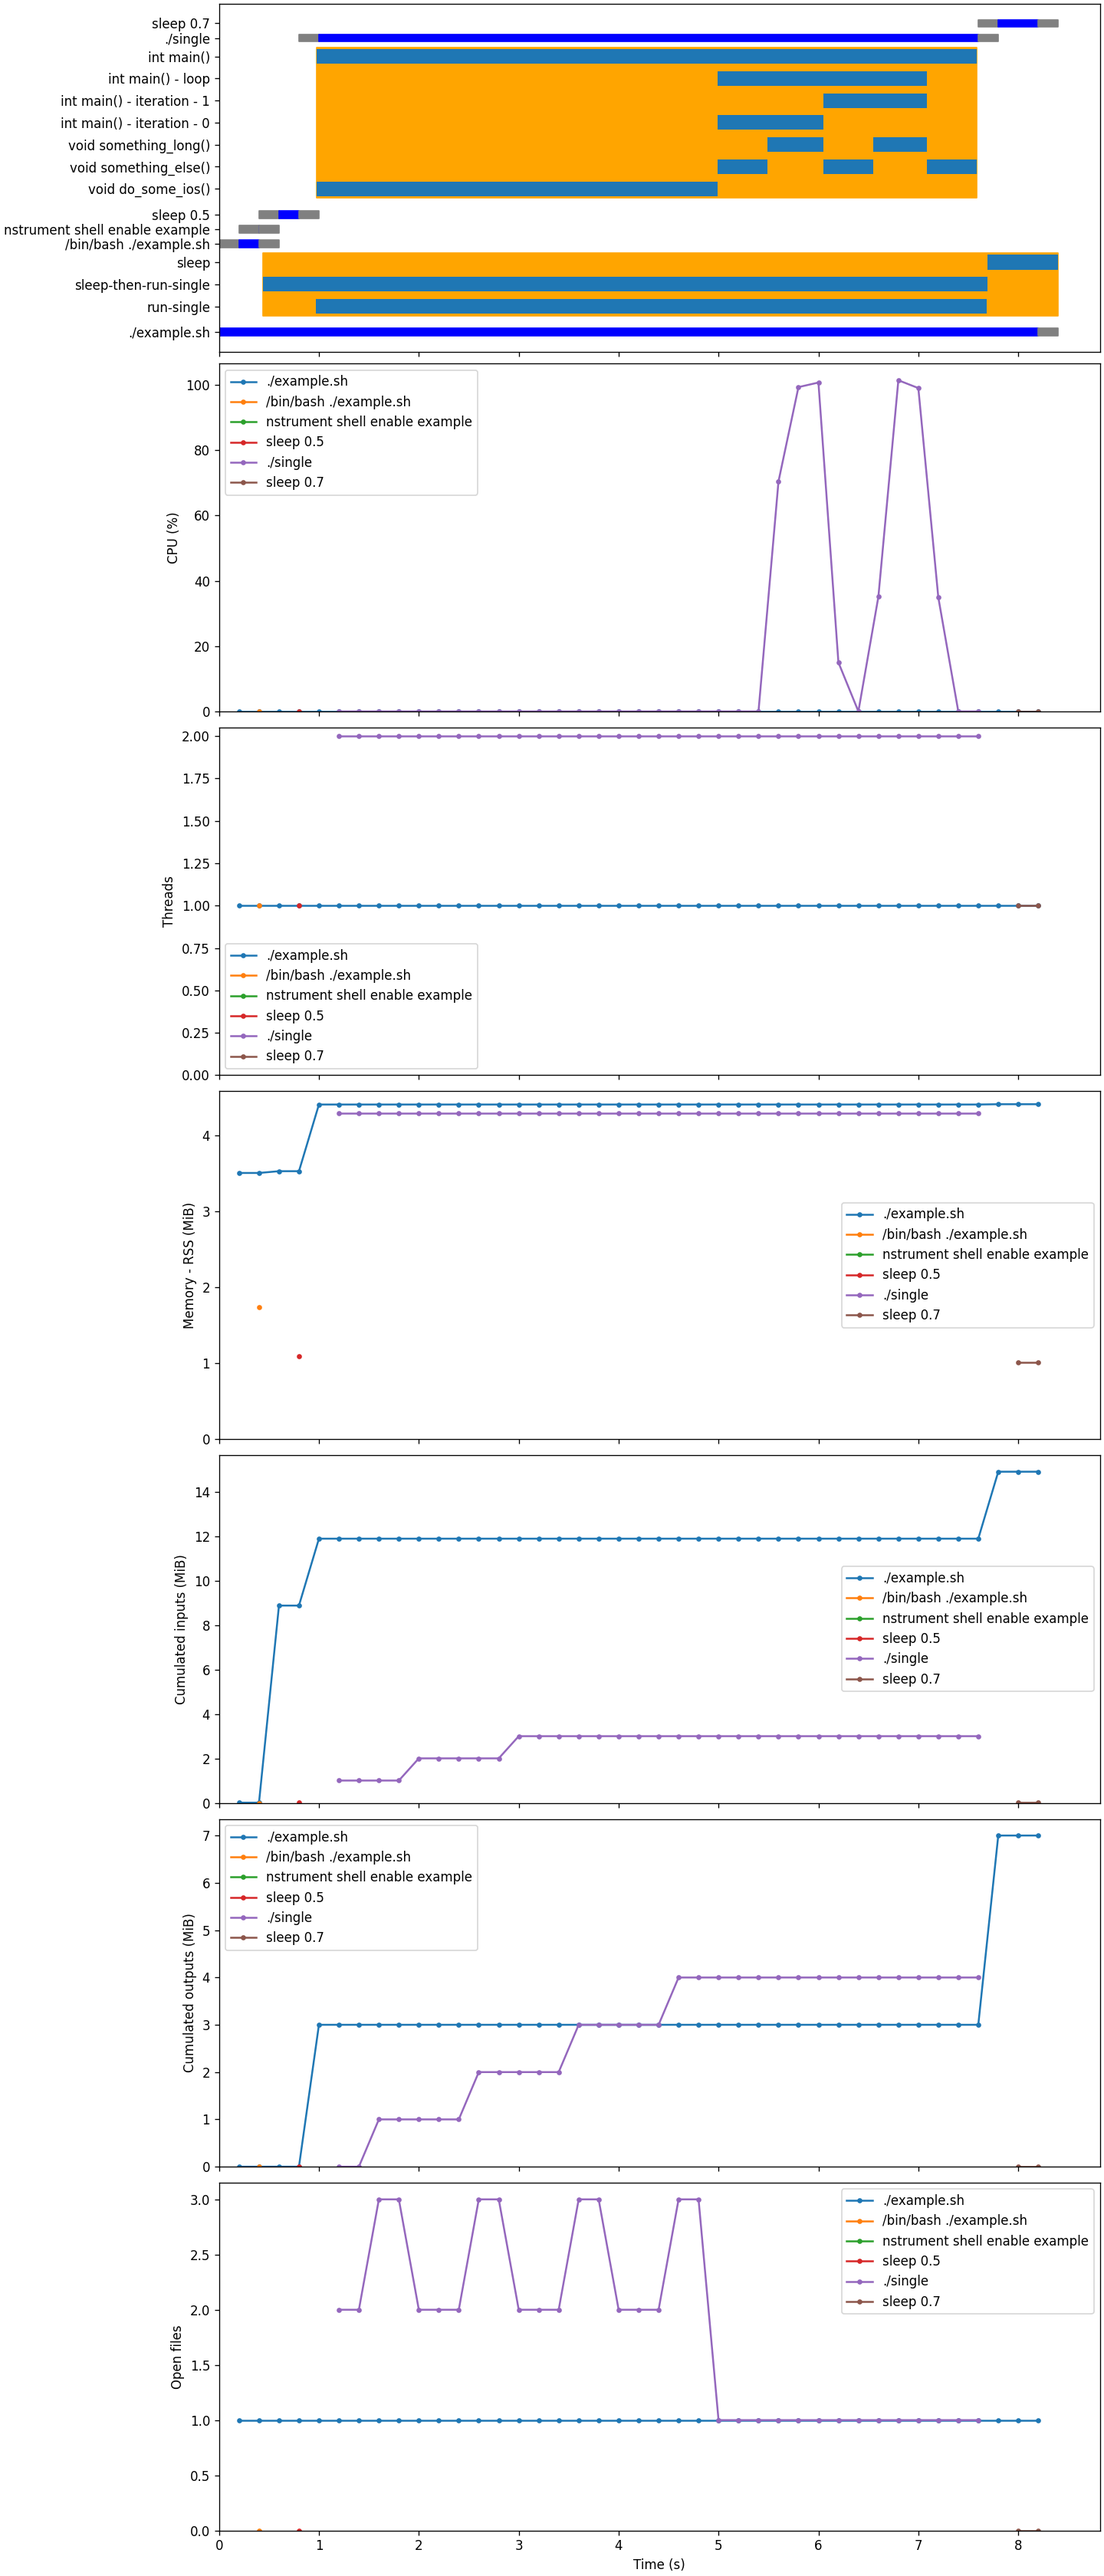
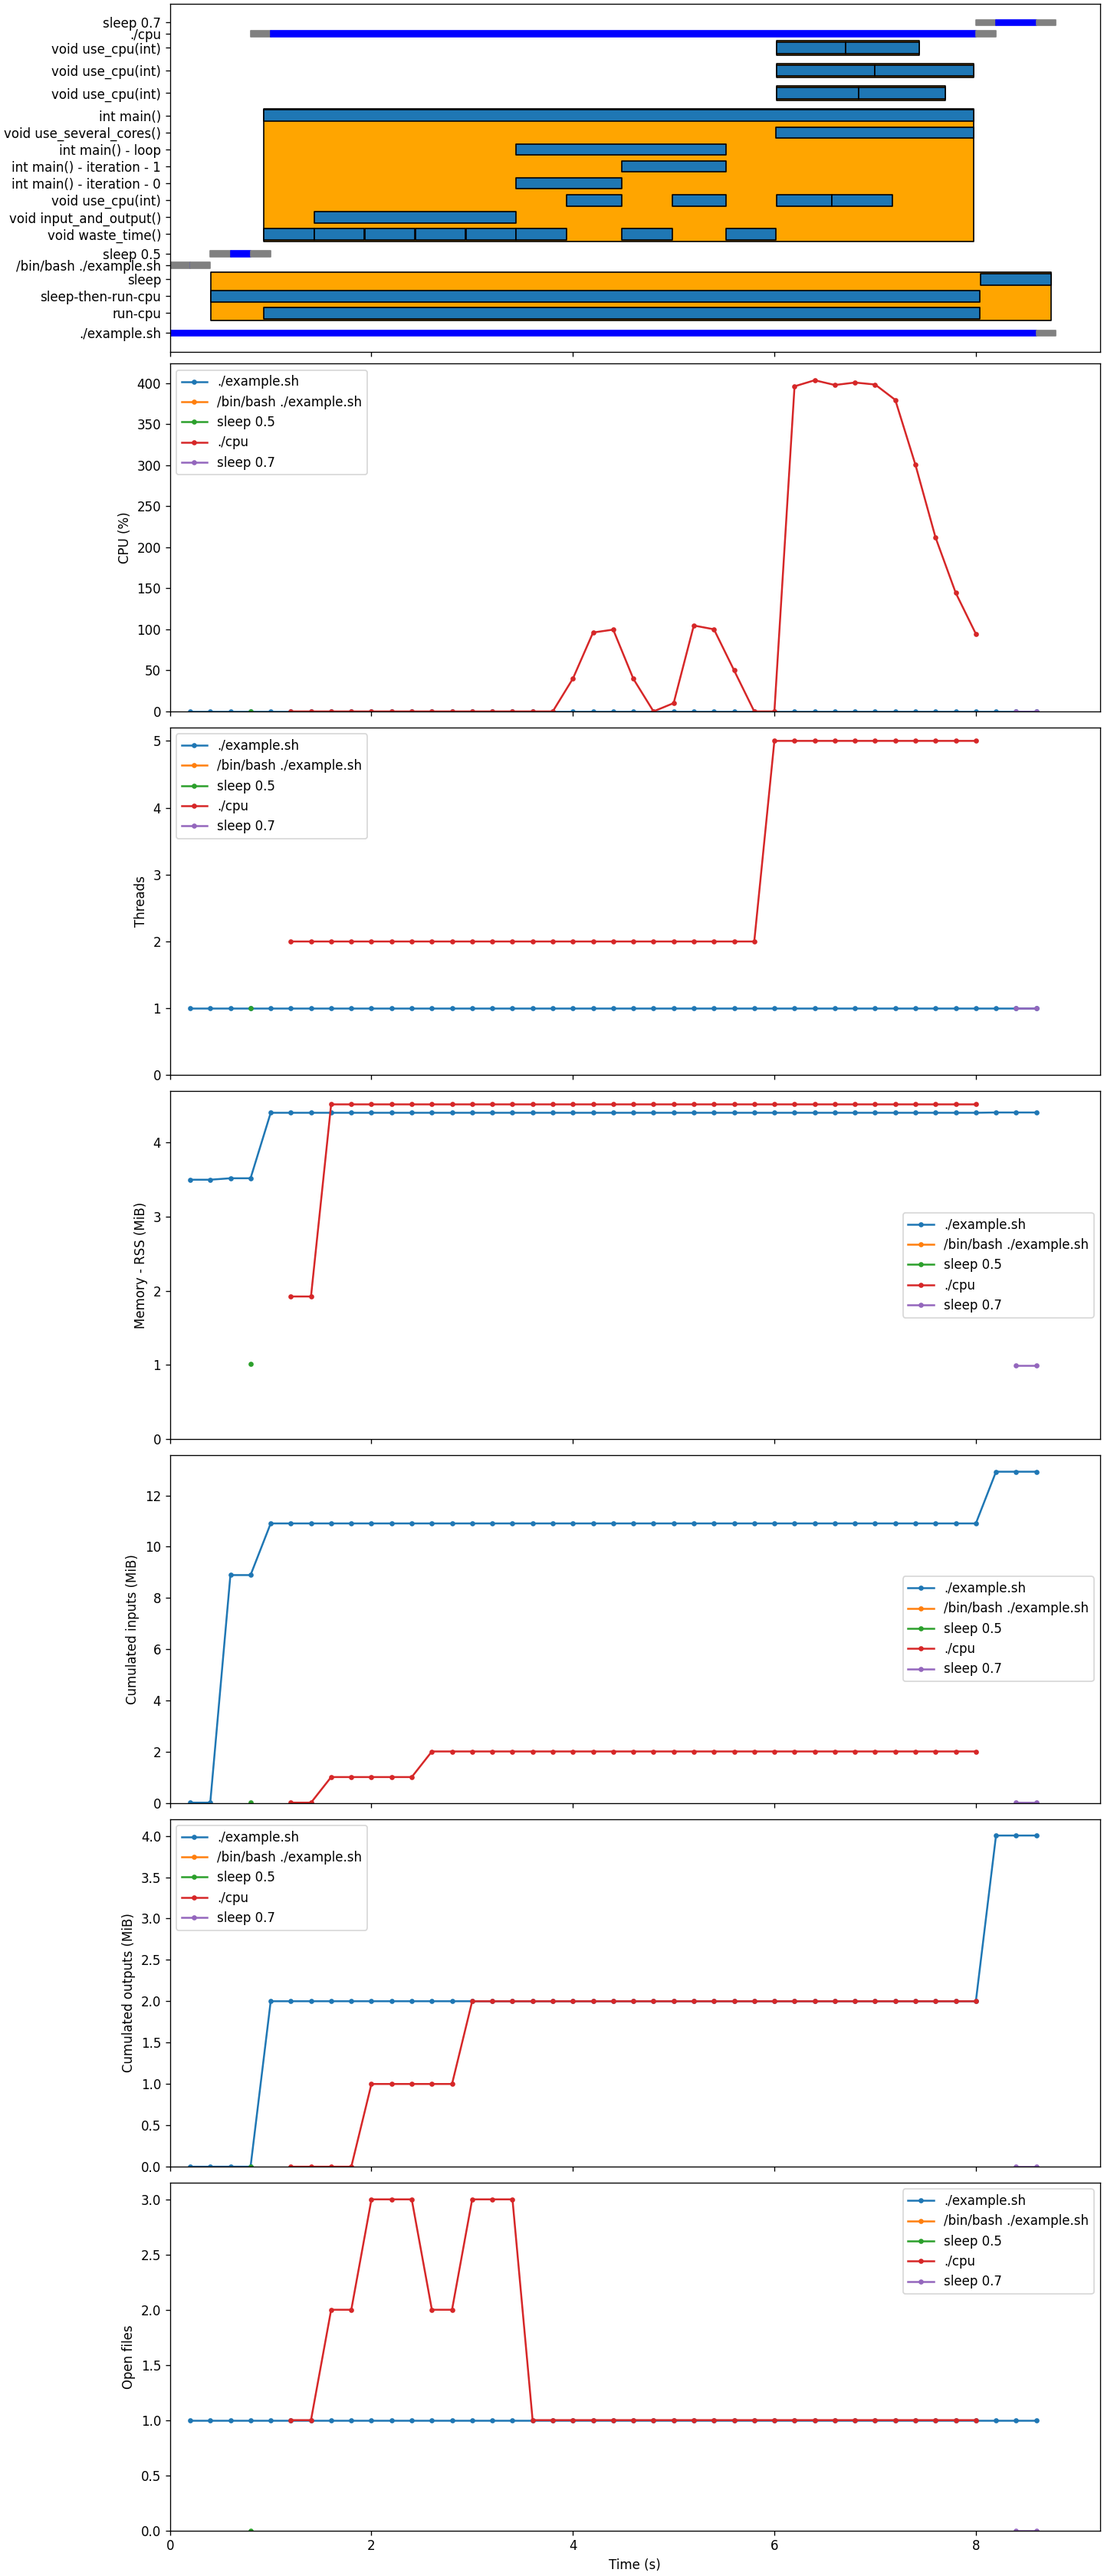
Display more feature in the example graph (CPU only)

diff --git a/Chrones/reporting/graph.py b/Chrones/reporting/graph.py
@@ -85,10 +85,11 @@ def make_graph(output_file):
                 chrones_ax.broken_barh(
                     [(thread.first_event.timestamp - origin_timestamp, thread.last_event.timestamp - thread.first_event.timestamp)],
                     (bottom_y + 0.75, len(thread.chrones) * 3 - 0.5),
-                    color="orange"
+                    color="orange",
+                    edgecolor="black",
                 )
                 for (name, bars) in thread.chrones.items():
-                    chrones_ax.broken_barh(bars, (bottom_y + 1, 2))
+                    chrones_ax.broken_barh(bars, (bottom_y + 1, 2), edgecolor="black")
                     chrones_ticks_ys.append(bottom_y + 2)
                     chrones_ticks_labels.append(name)
                     bottom_y += 3

diff --git a/README.md b/README.md
@@ -236,13 +236,13 @@ As a complete example, here is the shell script that the image at the top of thi
     source <(chrones instrument shell enable example)
 
 
-    chrones_start sleep-then-run-single
+    chrones_start sleep-then-run-cpu
     sleep 0.5
 
-    dd status=none if=/dev/random of=in.dat bs=1M count=3
+    dd status=none if=/dev/random of=in.dat bs=1M count=2
 
-    chrones_start run-single
-    ./single
+    chrones_start run-cpu
+    ./cpu
     chrones_stop
 
     chrones_stop
@@ -255,35 +255,41 @@ As a complete example, here is the shell script that the image at the top of thi
 
 And the various executables called by the script:
 
-- `single.cpp`:
+- `cpu.cpp`:
 
-<!-- START single.cpp -->
+<!-- START cpu.cpp -->
     #include <time.h>
 
     #include <chrones.hpp>
 
-    CHRONABLE("single");
+    CHRONABLE("cpu");
 
-    void do_some_ios() {
+    void waste_time() {
+      CHRONE();
+
+      usleep(500'000);
+    }
+
+    void input_and_output() {
       CHRONE();
 
       char megabyte[1024 * 1024];
 
       std::ifstream in("in.dat");
 
-      for (int i = 0; i != 4; ++i) {
+      for (int i = 0; i != 2; ++i) {
         in.read(megabyte, sizeof(megabyte));
-        usleep(500'000);
+        waste_time();
         std::ofstream out("out.dat");
         out.write(megabyte, sizeof(megabyte));
-        usleep(500'000);
+        waste_time();
       }
     }
 
-    void something_long() {
+    void use_cpu(int repetitions) {
       CHRONE();
 
-      for (int i = 0; i < 256; ++i) {
+      for (int i = 0; i < repetitions; ++i) {
         volatile double x = 3.14;
         for (int j = 0; j != 1'000'000; ++j) {
           x = x * j;
@@ -291,28 +297,35 @@ And the various executables called by the script:
       }
     }
 
-    void something_else() {
+    void use_several_cores() {
       CHRONE();
 
-      usleep(500'000);
+      #pragma omp parallel for
+      for (int i = 0; i != 8; ++i) {
+        use_cpu(256 + i * 32);
+      }
     }
 
     int main() {
       CHRONE();
 
-      do_some_ios();
+      waste_time();
+
+      input_and_output();
 
       {
         CHRONE("loop");
         for (int i = 0; i != 2; ++i) {
           CHRONE("iteration", i);
 
-          something_else();
-          something_long();
+          waste_time();
+          use_cpu(256);
         }
       }
 
-      something_else();
+      waste_time();
+
+      use_several_cores();
     }
 <!-- STOP -->
 
@@ -324,7 +337,7 @@ This code is built using `make` and the following `Makefile`:
     set -o errexit
     trap 'echo "Error on ${BASH_SOURCE[0]}:$LINENO"' ERR
 
-    rm -f run-results.json example.*.chrones.csv single.*.chrones.csv
+    rm -f run-results.json example.*.chrones.csv cpu.*.chrones.csv
 
 
     make
@@ -332,20 +345,20 @@ This code is built using `make` and the following `Makefile`:
 <!-- CHMOD+X run.sh -->
 
 <!-- START Makefile -->
-    all: single
+    all: cpu
 
-    single: single.cpp
-    	g++ -std=c++20 -O3 -I`chrones instrument c++ header-location` single.cpp -o single
+    cpu: cpu.cpp
+    	g++ -std=c++20 -fopenmp -O3 -I`chrones instrument c++ header-location` cpu.cpp -o cpu
 <!-- STOP -->
 <!-- EXTEND Makefile -->
 
-    single: Makefile
+    cpu: Makefile
 <!-- STOP -->
 
 It's executed like this:
 
 <!-- EXTEND run.sh -->
-    chrones run -- ./example.sh
+    OMP_NUM_THREADS=4 chrones run -- ./example.sh
 <!-- STOP -->
 
 And the report is created like this:
